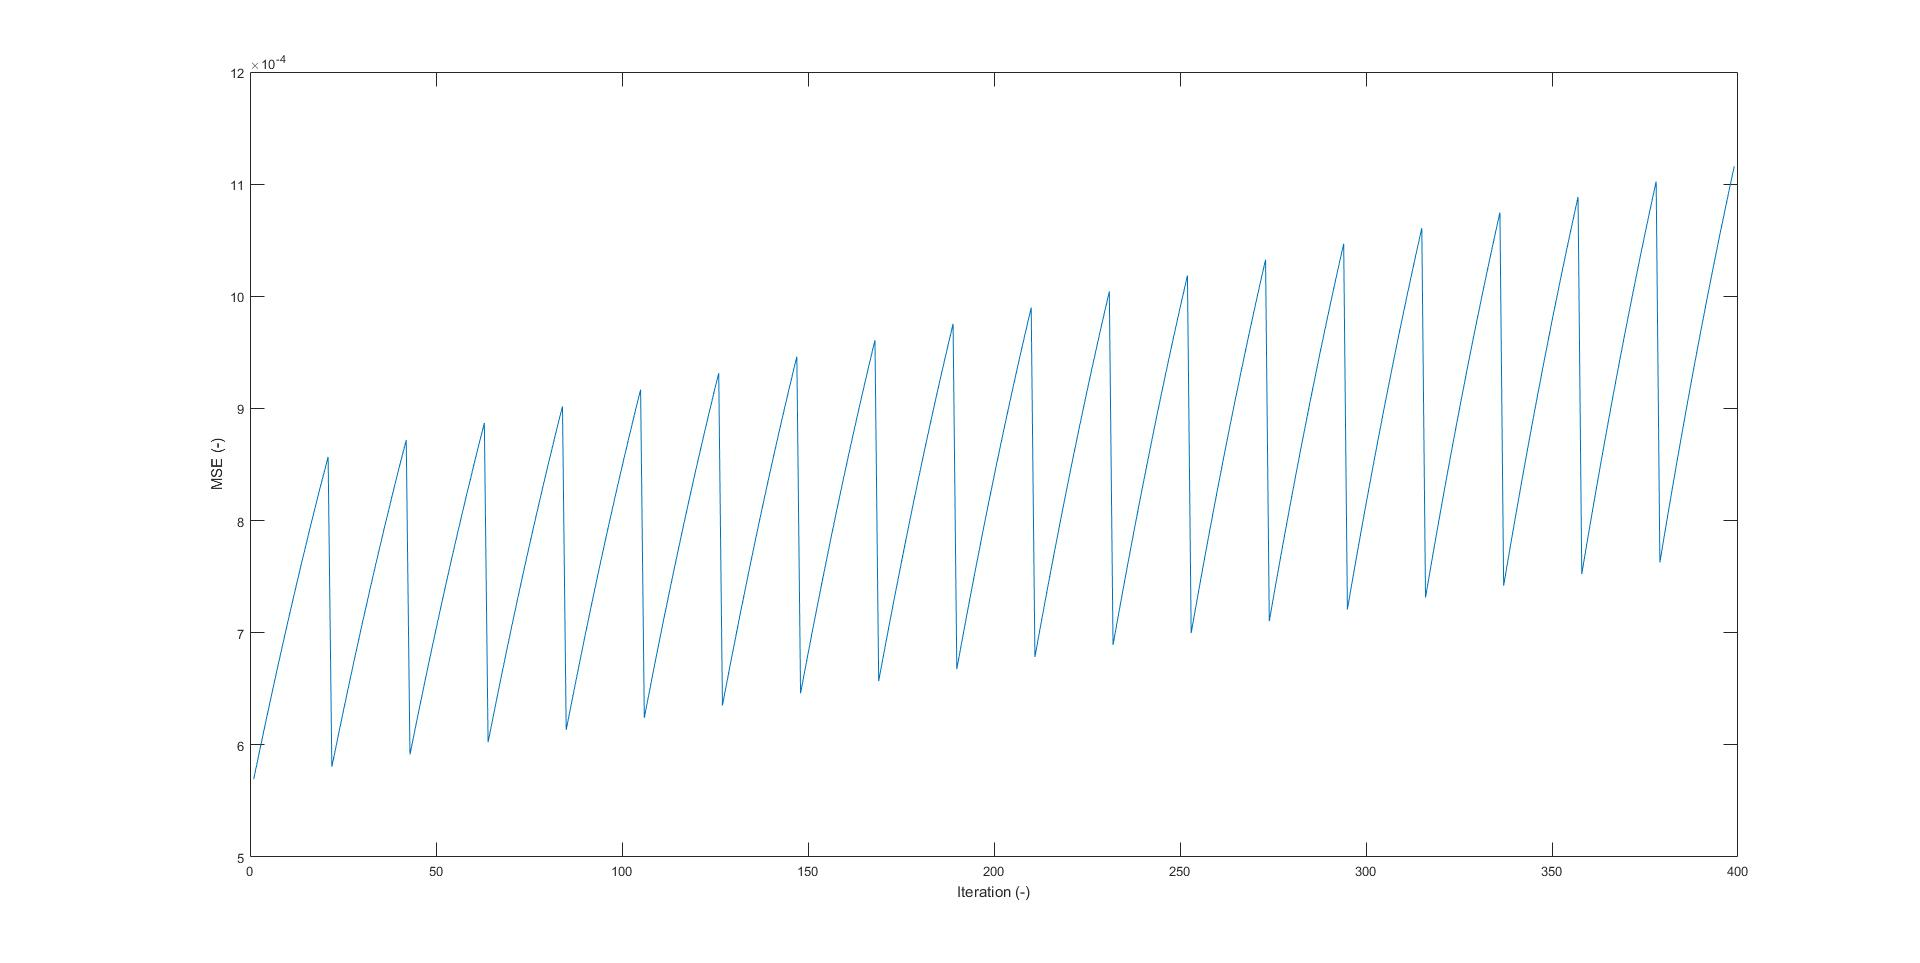
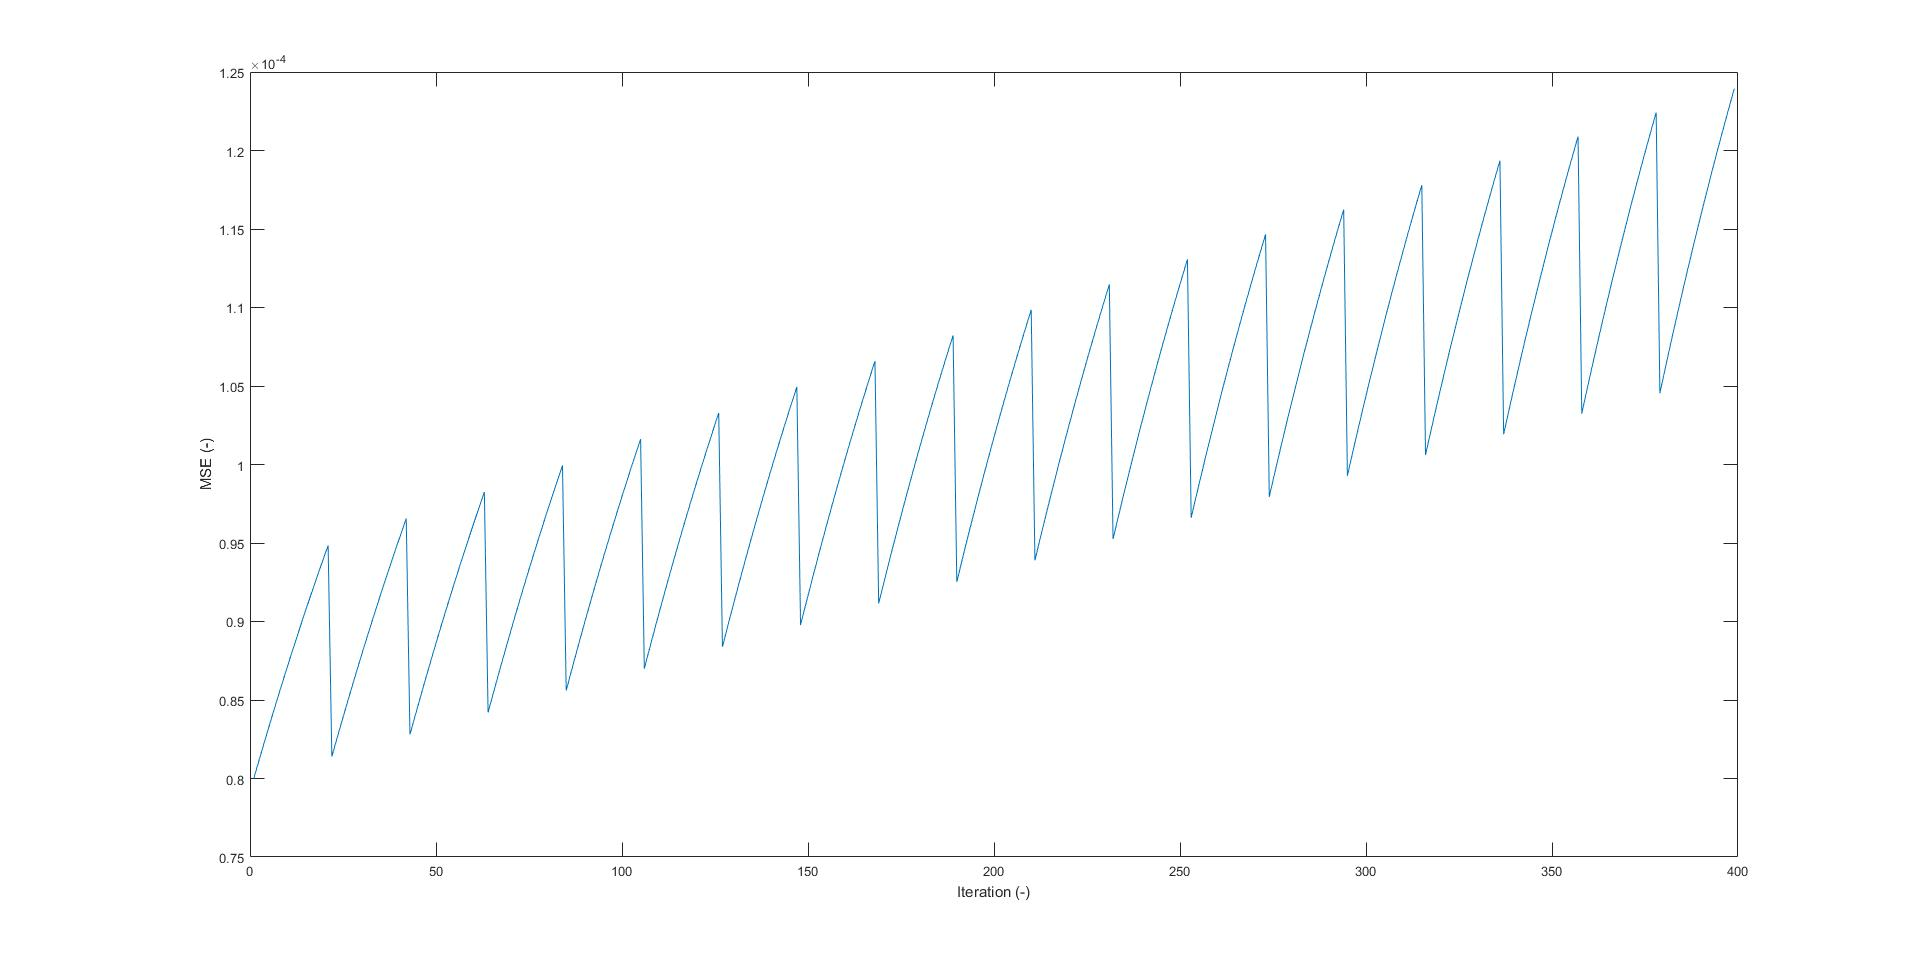
io

diff --git a/Task1b.m b/Task1b.m
@@ -39,26 +39,25 @@ for Cf = 81000:1000:99000
 
         T = 0.3;
 
-        sim('TasksSimulink')
-        
+        sim('TasksSimulink')        
 
         
         %% Errors
         
-        error_beta_an(coeff) = immse(Beta_VBOX,beta_modelbased.Data);
-        error_beta_int(coeff) = immse(Beta_VBOX,beta_integration.Data);
-        error_beta_wash(coeff) = immse(Beta_VBOX,beta_washout.Data);
+        error_beta_an(coeff) = immse(Beta_VBOX(1:1501),beta_modelbased.Data(1:1501));
+%         error_beta_int(coeff) = immse(Beta_VBOX(1:1501),beta_integration.Data);
+%         error_beta_wash(coeff) = immse(Beta_VBOX(1:1501),beta_washout.Data);
         
         plot(beta_modelbased.Time,beta_modelbased.Data,':');
         hold on;
-        plot(beta_integration.Time,beta_integration.Data);
-        hold on
-        plot(beta_washout.Time,beta_washout.Data,'-.');
-        hold on
+%         plot(beta_integration.Time,beta_integration.Data);
+%         hold on
+%         plot(beta_washout.Time,beta_washout.Data,'-.');
+%         hold on
         
     end
 end
 
 disp(coeff)
-plot(Time,Beta_VBOX);
+plot(Time(1:1501),Beta_VBOX(1:1501));
 
